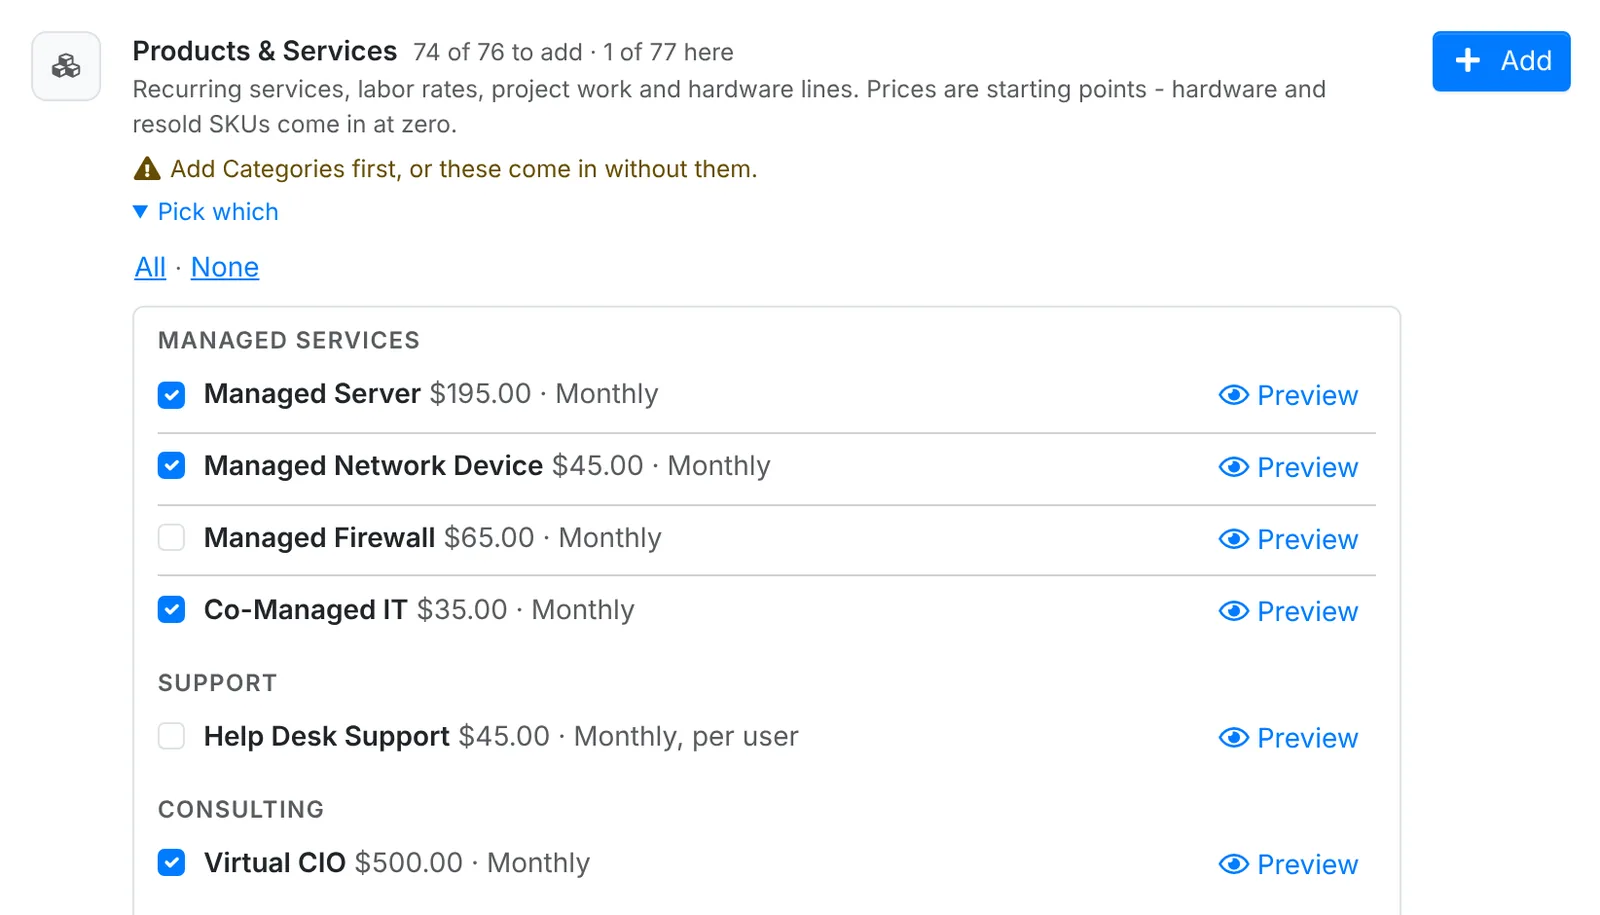
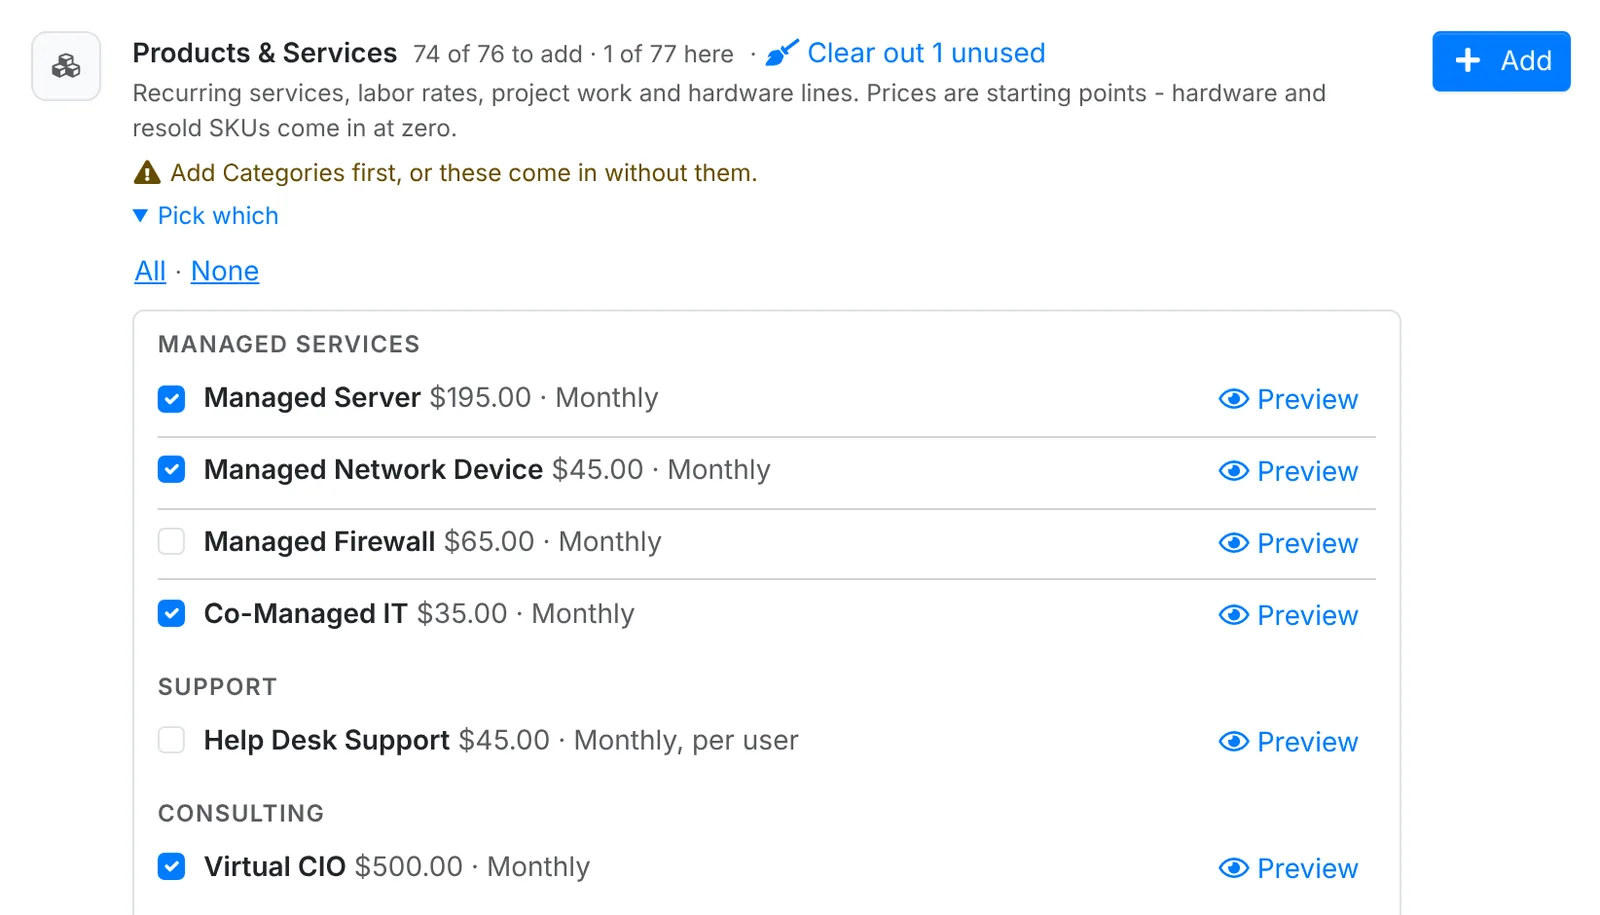
Docs: Clear out unused on Starter Content, what counts as in use and how to get archived items back, with new screenshots

diff --git a/content/admin/maintenance.md b/content/admin/maintenance.md
@@ -206,6 +206,14 @@ Everything is ticked to start with. Untick what you don't want, or use **All** a
 
 ![The preview of a document template](adm-starter-preview.webp "Preview: the Network Overview document template, as it comes in")
 
+### Clear out unused {#clear-out}
+
+**Clear out unused**, beside a pack's counts, is there when some of what you have from it isn't used yet: a category no ticket, invoice, expense or product has, a tag on nothing, a template nothing was made from, a canned response never put in a reply, or a product on no invoice, quote or asset. It lists them, all ticked, and says how many are in use and stay. Untick what you want to keep and click **Archive them**.
+
+![Clear out unused, open on Categories](adm-starter-clear.webp "Clear out unused: what came from the Categories pack that nothing uses yet, to archive")
+
+They're archived, not deleted: **Undo** on the message puts them back, and any can be restored later from its own list's archived view. **Add** still counts them as here, so it doesn't make them again.
+
 The [Starter content step](/install/after-install#starter-content) of Get started has the same packs, with Pick which and Preview.
 
 Request forms come with the ticket templates, turned off - turn each on in its template's **Client portal** card. Products come priced as starting points: hardware and resold licensing at zero, because they're quoted per deal.
